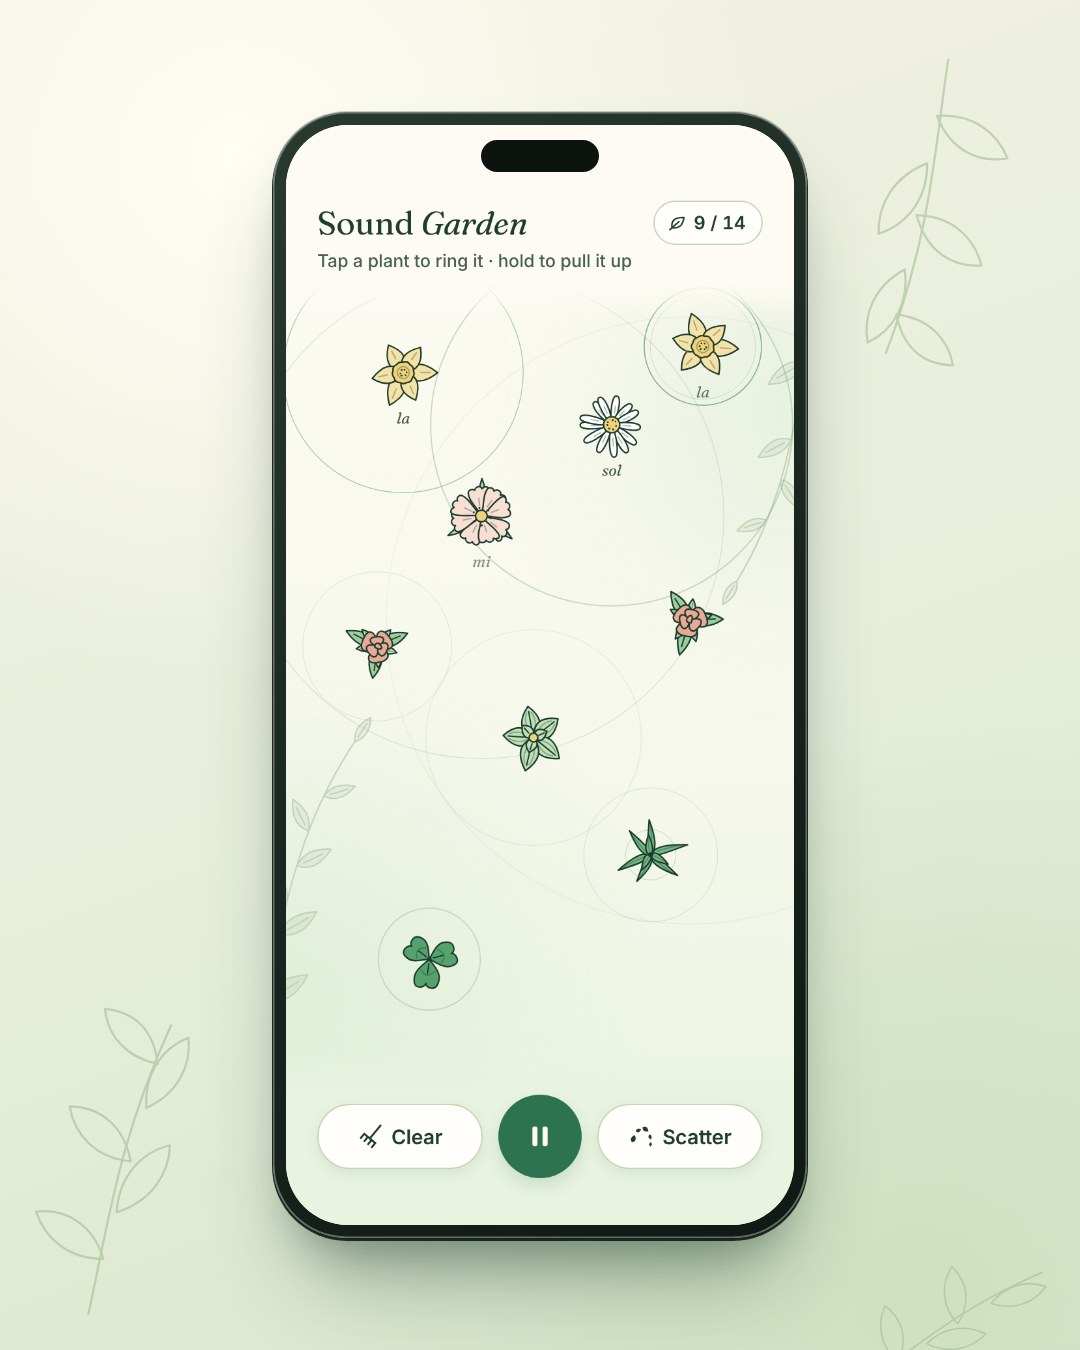
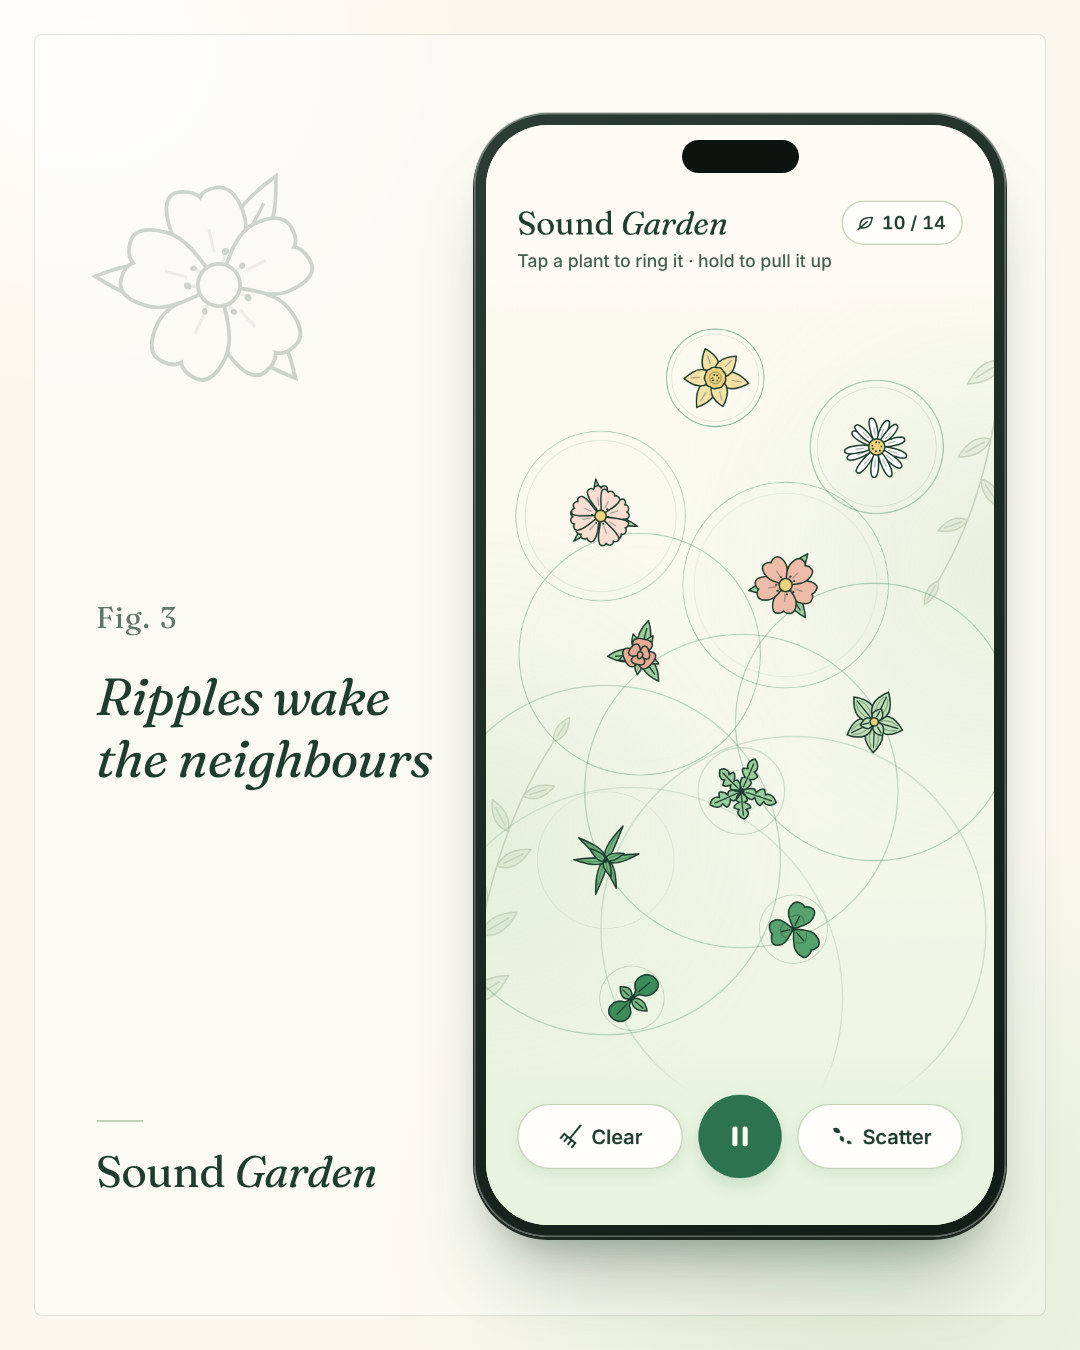
Sound Garden post: add the animated preview
The post now shows the app playing, recorded from the real app, with a
still picture for people who turn motion off, and a new share image.

diff --git a/blog/sound-garden/index.html b/blog/sound-garden/index.html
@@ -12,8 +12,10 @@
 <meta property="og:type" content="article">
 <meta property="og:title" content="Sound Garden: a generative music app for iOS and Android">
 <meta property="og:description" content="Tap to plant seeds that grow into flowers, ripple and chime. Open source, built with React Native and Expo.">
-<meta property="og:image" content="https://scottchanatry.com/blog/sound-garden/sound-garden.jpg">
-<meta property="og:image:alt" content="Sound Garden on a phone: nine small plants drawn in green ink on cream paper, with fine ripples spreading between them">
+<meta property="og:image" content="https://scottchanatry.com/blog/sound-garden/share.jpg?v=e2d8ef3b">
+<meta property="og:image:width" content="1200">
+<meta property="og:image:height" content="630">
+<meta property="og:image:alt" content="Sound Garden wordmark in deep green with the line 'Plant a sound. Let the garden play.' beside a phone showing drawn flowers and fine green ripples on a cream screen">
 <meta property="og:url" content="https://scottchanatry.com/blog/sound-garden/">
 <meta property="og:site_name" content="Scott Chanatry">
 <meta property="article:published_time" content="2026-11-15">
@@ -37,6 +39,7 @@
   .post-intro img { display: block; width: 100%; height: auto; border-radius: .25rem; box-shadow: 0 1px 2px rgba(30,36,48,.12), 0 8px 24px rgba(30,36,48,.12); }
   .post-intro p { margin: 0; }
   .post-shot { margin: 0 0 2rem; max-width: 30rem; }
+  .post-shot picture { display: block; }
   .post-shot img { display: block; width: 100%; height: auto; border-radius: .6rem; box-shadow: 0 1px 2px rgba(30,36,48,.08), 0 10px 28px rgba(30,36,48,.12); }
   .post-shot figcaption { margin-top: .6rem; font-family: var(--mono); font-size: .8rem; color: var(--graphite); }
   .post .btn { margin: .5rem 0 1.5rem; }
@@ -58,7 +61,7 @@
       "url": "https://scottchanatry.com/blog/sound-garden/",
       "datePublished": "2026-11-15",
       "dateModified": "2026-11-15",
-      "image": "https://scottchanatry.com/blog/sound-garden/sound-garden.jpg",
+      "image": ["https://scottchanatry.com/blog/sound-garden/share.jpg?v=e2d8ef3b", "https://scottchanatry.com/blog/sound-garden/sound-garden.jpg?v=7fab2c1b"],
       "keywords": "Sound Garden, generative music, iOS app, Android app, React Native, Expo, open source",
       "author": { "@id": "https://scottchanatry.com/#scott" },
       "about": { "@id": "https://scottchanatry.com/blog/sound-garden/#app" },
@@ -105,8 +108,11 @@
       rings like a bell, and the garden keeps playing by itself.</p>
 
     <figure class="post-shot">
-      <img src="/blog/sound-garden/sound-garden.jpg?v=2e8394bc" width="1080" height="1350"
-           alt="Sound Garden on a phone: nine small plants drawn in green ink on cream paper, from clover at the bottom to daffodils at the top, with fine ripples spreading between them">
+      <picture>
+        <source srcset="/blog/sound-garden/sound-garden.webp?v=4a4ab79b" type="image/webp" media="(prefers-reduced-motion: no-preference)">
+        <img src="/blog/sound-garden/sound-garden.jpg?v=7fab2c1b" width="1080" height="1350"
+             alt="Sound Garden on a phone beside a botanical caption: ten plants drawn from above, from a leafy seedling to a daffodil, ring with fine green ripples as they are planted, rest and wake again">
+      </picture>
       <figcaption>Leaves are low notes. Flowers are high notes.</figcaption>
     </figure>
 
